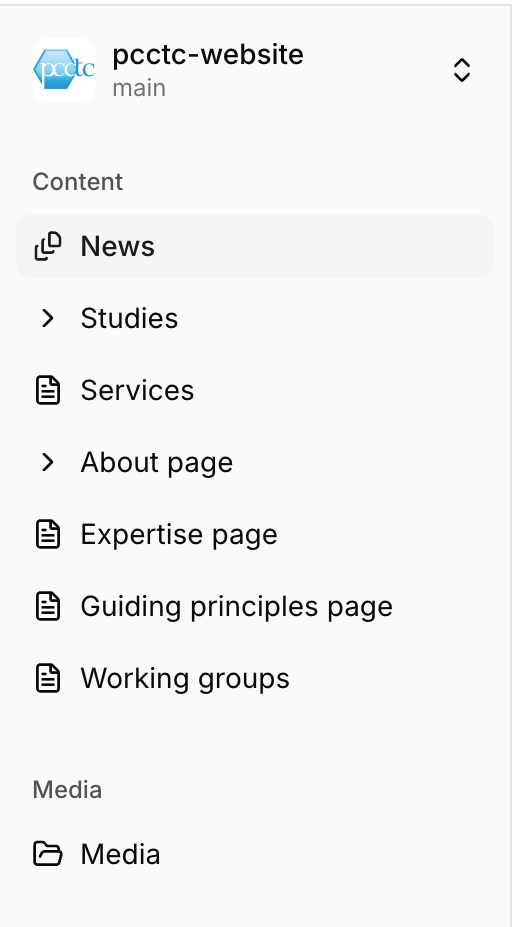
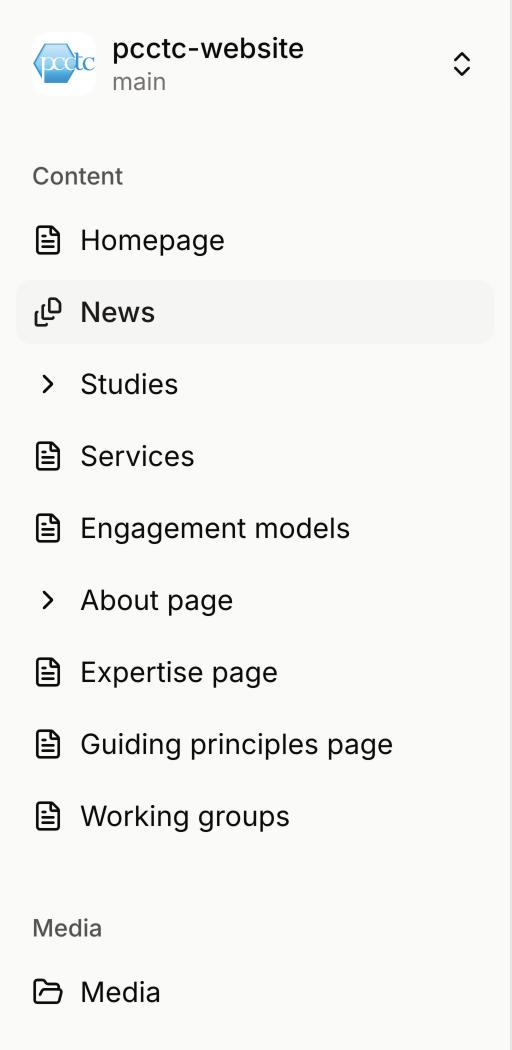
Docs: retake the CMS screenshots and explain where homepage content lives
Kris followed up that he still couldn't reach the homepage content. The
live CMS shows the new Homepage item; his screenshot predated the push.
But the CMS never shows a content item's description, so the note in
.pages.yml about where the rest of the homepage is edited never reached
him. The editing guide now has a short "The homepage" section with a
screenshot of the Homepage form, and the troubleshooting table covers a
new section that doesn't appear until the editor is reloaded.

The sidebar screenshot predated Engagement models and Homepage, and the
new-post screenshot was an edited image; both are fresh captures of the
live CMS. AGENTS.md records that only field descriptions show in the CMS
and that open editors must reload after a .pages.yml change.

diff --git a/docs/editing-guide.md b/docs/editing-guide.md
@@ -56,7 +56,7 @@ the site:
 | **Working groups** | the working groups and their publication lists on /workinggroups |
 | **Media** | the image library (headshots, graphics) |
 
-![The sidebar: News, Studies, Services, About page, Expertise page, Guiding principles page, Working groups, and Media](images/02-sidebar.png)
+![The sidebar: Homepage, News, Studies, Services, Engagement models, About page, Expertise page, Guiding principles page, Working groups, and Media](images/02-sidebar.png)
 
 A few parts of the site are not in this list: the homepage text (apart from the number of
 research sites), the mission and history on /about, the /talent page, most of the Partner page, the privacy page, and the banner text at
@@ -64,6 +64,18 @@ the top of each page.
 Those live in the site's templates rather than its content and change rarely. If one of them
 needs editing, or the site needs a new section, that's a change to the structure; bring it to
 Travis (see "When to bring in Travis").
+
+### The homepage
+
+Most of the homepage is filled in from other sections: the four big numbers come from
+**About page → Key numbers**, the service cards from **Services**, the study cards from
+**Studies → Featured studies**, and the three latest posts from **News**. **Homepage** in the
+sidebar holds one setting, the number of research sites, which the homepage, /about, /partner
+and search results all quote. The Services and Expertise pages mention the same number in
+their own text, so update those by hand when it changes. The rest of the homepage's wording is
+part of the templates mentioned above.
+
+![The Homepage form: a single Number of research sites field set to 200, with help text below it](images/08-homepage.png)
 
 ## Editing something that already exists
 
@@ -223,6 +235,7 @@ edit it again and save; the fix publishes the same way.
 | You deleted or changed something by mistake | Nothing is lost; every save is kept | Edit and save again if it's quick. If it's a big one (a whole list gone), ask Travis to restore the earlier version; that takes him a minute |
 | No sign-in code arrives | Mail delay or spam filter | Wait a minute, check spam, then click resend. Codes expire after five minutes |
 | "Invite unavailable" or "This invitation link is invalid" | The invitation link was already used or has expired | Go to app.pagescms.org and sign in with your email as usual; if that fails, ask Travis for a fresh invitation |
+| A section you were told about isn't in the sidebar | The editor was already open when the section was added | Reload the page |
 | The editor looks broken or won't load | A hiccup on the editor's side | Reload the page; if that doesn't help, sign out and back in, or try another browser. If app.pagescms.org itself is down, your edits can wait; nothing is lost |
 
 ## Ground rules

diff --git a/AGENTS.md b/AGENTS.md
@@ -43,7 +43,11 @@ Pages CMS (see Key decisions); everything it edits is a plain text file in this 
   `id` is the in-page anchor) and `src/data/guiding-principles.yaml` (`title`, `body`). Long
   `body` fields render one paragraph per line break (`paragraphs()` in `src/lib/data.ts`).
 - **CMS forms** — `.pages.yml` at the repo root defines what Pages CMS shows for each of the
-  above. Adding a field to a data file or the news schema means adding it there too.
+  above. Adding a field to a data file or the news schema means adding it there too. The CMS
+  shows a field's `description` under the field but never a content item's `description`, so
+  anything editors need to read goes in a field description or in `docs/editing-guide.md`.
+  After a `.pages.yml` change, editors who already have the CMS open must reload it to see the
+  new sidebar.
 
 Page templates in `src/pages/` and components in `src/components/` render this data. Prose that
 is still inline in `.astro` files (not CMS-editable): the homepage (apart from its site count),
